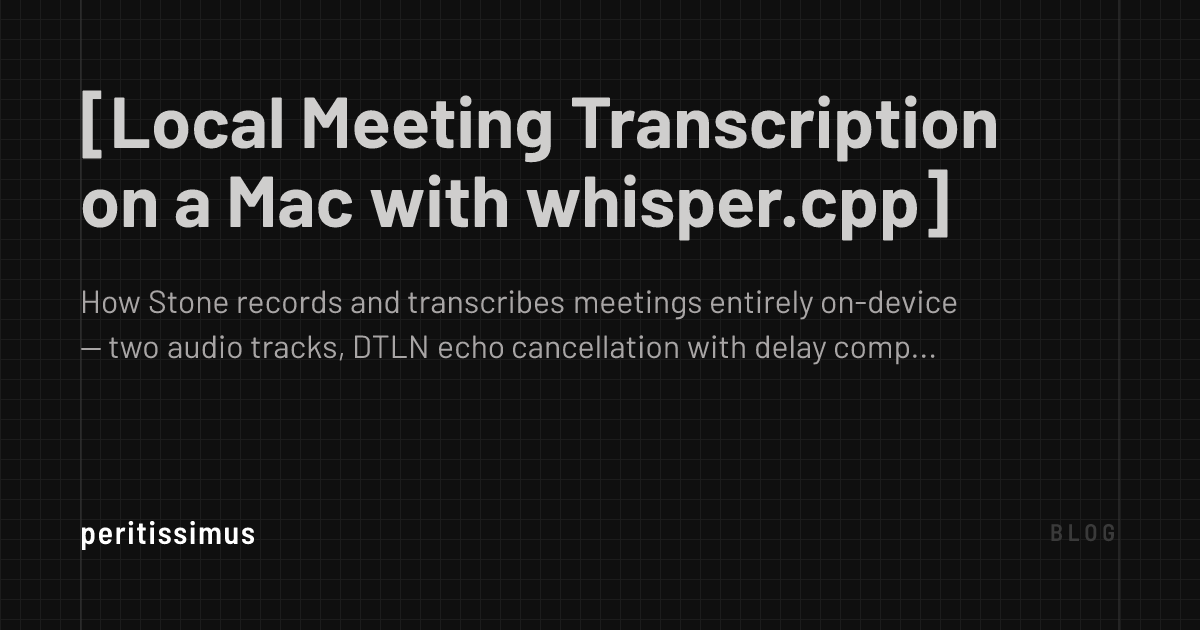
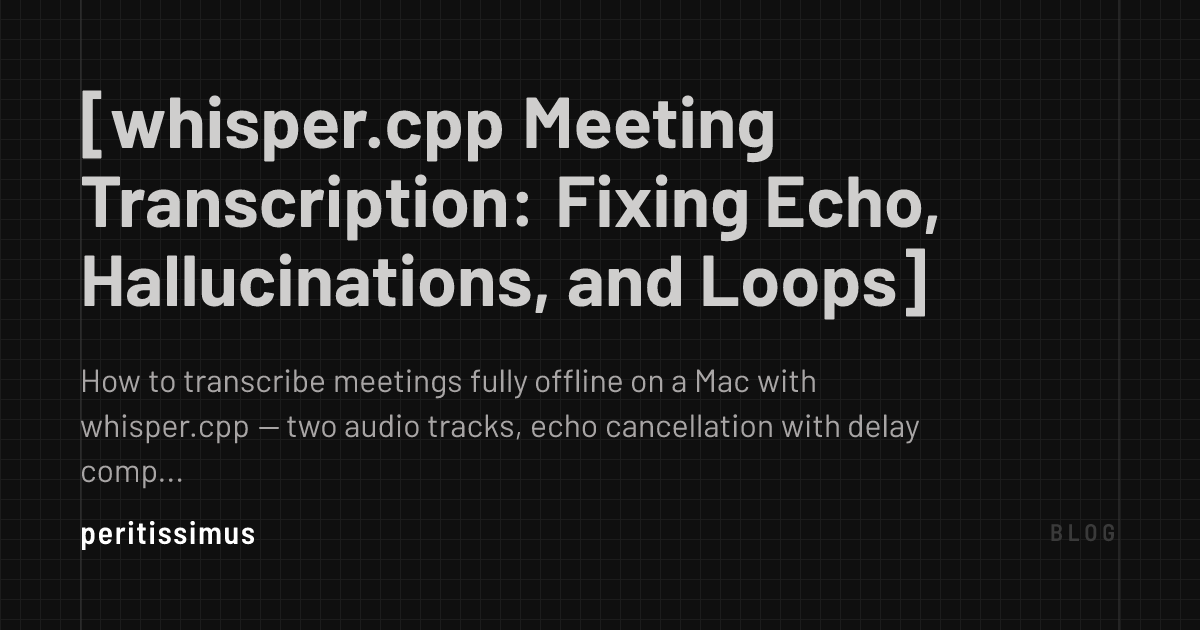
feat(seo): target the searches people make and fix missing preview images
Search Console showed almost all impressions were for brand terms, and
that the Stone page was indexed but never shown for note-taking queries.

- Add an optional seoTitle and updated date for project pages, and give
  every project a descriptive title instead of 'Personal Project'
- Retitle the transcription and search posts toward the queries they
  answer, and add the Redis visibility timeout to the Celery post
- Add a Stone vs Obsidian vs Granola comparison
- Rewrite the About, Blog and Software titles and descriptions
- Generate preview images for personal projects, whose og:image 404ed
- Keep crawlers out of Cloudflare's /cdn-cgi/ endpoint

Changed region(s): [[0.0617, 0.1508, 0.8325, 0.6333], [0.0617, 0.6635, 0.7708, 0.6937], [0.0617, 0.7238, 0.1542, 0.7841]]

diff --git a/scripts/generate-og-images.js b/scripts/generate-og-images.js
@@ -81,6 +81,34 @@ const WORK_PAGES = [
   },
 ];
 
+// Personal projects (read from content directory); the roles above keep
+// their hand-written descriptions.
+function getPersonalProjects() {
+  const workDir = path.join(ROOT_DIR, 'src/content/work');
+  if (!fs.existsSync(workDir)) return [];
+
+  const listed = new Set(WORK_PAGES.map((page) => page.slug));
+  const unquote = (value) => value.trim().replace(/^(['"])([\s\S]*)\1$/, '$2');
+
+  return fs
+    .readdirSync(workDir)
+    .filter((f) => f.endsWith('.md') && !listed.has(f.replace('.md', '')))
+    .map((file) => {
+      const content = fs.readFileSync(path.join(workDir, file), 'utf-8');
+      const frontmatter = content.match(/^---\n([\s\S]*?)\n---/)?.[1];
+      if (!frontmatter) return null;
+      const title = frontmatter.match(/^title:\s*(.+)$/m)?.[1];
+      const description = frontmatter.match(/^description:\s*(.+)$/m)?.[1];
+      return {
+        slug: file.replace('.md', ''),
+        title: title ? unquote(title) : file.replace('.md', ''),
+        description: description ? unquote(description) : '',
+        type: 'work',
+      };
+    })
+    .filter(Boolean);
+}
+
 // Blog posts (read from content directory)
 function getBlogPosts() {
   const blogDir = path.join(ROOT_DIR, 'src/content/blog');
@@ -353,7 +381,7 @@ async function main() {
   }
 
   // Generate work pages
-  for (const page of WORK_PAGES) {
+  for (const page of [...WORK_PAGES, ...getPersonalProjects()]) {
     const template = getBaseTemplate(page);
     const outputPath = path.join(OG_OUTPUT_DIR, `work/${page.slug}.png`);
     await generateOGImage(template, outputPath, fonts);

diff --git a/src/content.config.ts b/src/content.config.ts
@@ -27,6 +27,8 @@ const workCollection = defineCollection({
     description: z.string(),
     dateRange: z.string(),
     sortDate: z.coerce.date().optional(),
+    updated: z.coerce.date().optional(),
+    seoTitle: z.string().optional(),
     location: z.string(),
     order: z.number(),
     technologies: z.array(z.string()).default([]),

diff --git a/src/content/blog/stone-vs-obsidian-vs-granola.md b/src/content/blog/stone-vs-obsidian-vs-granola.md
@@ -1,0 +1,105 @@
+---
+title: "Stone vs Obsidian vs Granola: A Local, Open-Source Alternative"
+date: 2026-10-05
+author: Kushal Patankar
+category: Product
+tags: [Stone, Obsidian Alternative, Granola Alternative, Note-Taking, Meeting Notes, Local-First]
+description: An honest comparison of Stone with Obsidian and Granola. Where an open-source, local-first notes app with on-device meeting transcription fits, and where the other two are the better choice.
+readTime: 6 min read
+---
+
+I build [Stone](/work/stone), so this comparison is not neutral. I have tried to make it useful anyway, which means saying plainly where Obsidian and Granola are better.
+
+The short version: Obsidian is the best general notes app for plain Markdown files. Granola is the most polished AI meeting notepad. Stone is for the narrower case where you want both jobs in one app, with the files and the transcription staying on your own Mac.
+
+## The three tools in one table
+
+| | Stone | Obsidian | Granola |
+| --- | --- | --- | --- |
+| Main job | Notes, journals, tasks, meetings | Notes and knowledge base | Meeting notes |
+| Where notes live | Markdown files in your folder | Markdown files in your folder | The vendor's cloud |
+| Meeting transcription | Built in, on-device | Through community plugins | Built in, cloud-processed |
+| Source | Open source (MIT) | Closed source, free to use | Closed source, commercial |
+| Plugins | None | Very large ecosystem | Integrations |
+| Mobile app | None | Yes | Check their current offering |
+| Platforms | macOS | Desktop and mobile | Check their current offering |
+
+The last two Granola cells are deliberately vague. Product details change quickly, and their own site is the right source.
+
+## Stone vs Obsidian
+
+Both keep your notes as Markdown files in a folder you own. If that is the only thing you care about, Obsidian is the safer choice. It has years of polish, mobile apps, a huge plugin ecosystem, and a large community.
+
+Stone differs in what it builds in:
+
+- **Daily journals** are a core view, not a plugin.
+- **Tasks** are collected from every note into one list, with states like `WAITING` and `HOLD`.
+- **Meeting recording** captures your mic and system audio and transcribes them on-device.
+- **Semantic search and related notes** work out of the box, with the models running locally.
+- **Git sync** is built into the app.
+
+In Obsidian, each of those is a plugin you choose, configure, and keep updated. That flexibility is the point of Obsidian, and for many people it is the right trade. Stone makes the opposite trade: fewer choices, more in the box.
+
+Stone is also open source. Obsidian is free to use but not open source. If you want to read or change the code of your notes app, that matters.
+
+**Choose Obsidian if** you want mobile apps, plugins, or a mature tool with a big community. **Choose Stone if** you want journals, tasks, meetings, and semantic search in one opinionated Mac app, and you are comfortable with a young project.
+
+## Stone vs Granola
+
+Granola is an AI notepad built around meetings. It listens to the audio on your computer without sending a bot into the call, and turns your rough notes plus the transcript into a clean summary. It does that job very well.
+
+The difference is where the work happens. Granola processes meetings in the cloud. Stone transcribes on your Mac with Whisper, using whisper.cpp, and the audio never leaves the machine. Summaries in Stone use a language model you configure, and cloud inference is off by default.
+
+There is a second difference in what you are left with afterwards. In Stone, a meeting record is a Markdown file in the same folder as your notes and journals. It is searchable alongside everything else, and it shows up in related notes. A meeting is not a separate product. It is one more kind of note.
+
+Granola is better in several ways:
+
+- The summaries are more polished and need no setup.
+- It does not need a capable machine, because the heavy work runs on their servers.
+- It is a finished commercial product with a team behind it.
+
+**Choose Granola if** you want the best meeting notes with no setup and you are fine with cloud processing. **Choose Stone if** recordings and transcripts must stay on your machine, or you want meetings to live in the same files as the rest of your notes.
+
+I wrote up how the recorder works in [local meeting transcription with whisper.cpp](/blog/local-meeting-transcription-whisper-cpp).
+
+## What Stone does not do
+
+A comparison that only lists strengths is an advert. Stone has real gaps:
+
+- **No mobile app.**
+- **No real-time collaboration.**
+- **No plugin system.**
+- **macOS only** in published builds.
+- **Not notarized by Apple yet**, so the first launch needs a manual step.
+- **One label for everyone else on a call.** Remote speakers are not told apart.
+- **A small project.** One developer, and things break.
+
+If any of those is a requirement, pick one of the other two.
+
+## Can you use them together?
+
+Yes, for Obsidian. Stone's workspace is a plain folder of Markdown, so you can point both apps at the same folder and use whichever suits the moment. Stone stores its own index in a separate database, and it rebuilds that from the files, so nothing in the notes themselves is tied to Stone. I explain that design in [hybrid search in SQLite over Markdown notes](/blog/markdown-notes-sqlite-search-index).
+
+## Frequently asked questions
+
+### Is there an open-source alternative to Granola?
+
+Yes, several. Stone is one: it records your microphone and system audio without a meeting bot, transcribes on-device with Whisper, and saves the result as a Markdown file. It is MIT-licensed and free. It is a notes app with meetings built in, not a dedicated meeting tool.
+
+### Is Stone a good Obsidian alternative?
+
+It can be, if you want daily journals, tasks, meeting transcription, and semantic search built in and you work on a Mac. If you depend on Obsidian plugins or its mobile apps, Stone will not replace it.
+
+### Does Stone record meetings without a bot joining the call?
+
+Yes. Stone captures the audio on your own computer, so nothing joins the meeting and other participants see no extra attendee. Tell people you are recording; in many places the law requires it.
+
+### Can I move my Obsidian vault into Stone?
+
+Stone opens a folder of Markdown files, so an existing vault works as a workspace. Features that come from Obsidian plugins will not carry over. Keep a backup before pointing any new app at your notes.
+
+### Does Stone work without an internet connection?
+
+Notes, search, and meeting transcription all work offline once the models have been downloaded. Only the optional summary and question-answering features need a network, and only if you connect them to a cloud model.
+
+Stone is free and the code is at [github.com/peritissimus/stone-electron](https://github.com/peritissimus/stone-electron). The fuller description of the app is in [Stone: a local-first Markdown note-taking app for Mac](/blog/stone-local-first-note-taking-app).

diff --git a/src/content/blog/celery-redis-media-pipeline.md b/src/content/blog/celery-redis-media-pipeline.md
@@ -1,10 +1,11 @@
 ---
 title: "Processing 2,000 Hours of Media a Day with Celery and Redis"
 date: 2026-07-26
+updated: 2026-10-05
 author: Kushal Patankar
 category: Infrastructure
-tags: [Celery, Redis, Distributed Systems, Python, Architecture, Queues]
-description: What running a video dubbing pipeline at 2K hours of daily content taught me about queue design, worker acknowledgment, and where a 50% speedup actually comes from.
+tags: [Celery, Redis, Distributed Systems, Python, Architecture, Queues, acks_late, Visibility Timeout]
+description: What running a video dubbing pipeline at 2K hours of daily content taught me about queue design, acks_late, the Redis visibility timeout, and where a 50% speedup actually comes from.
 readTime: 11 min read
 ---
 
@@ -144,6 +145,24 @@ The second one is unglamorous and saved us repeatedly. Media libraries allocate 
 
 Late acknowledgment has a consequence worth stating plainly: your tasks must be safe to run twice. A requeued job will re-execute work that may have partially completed. Write outputs to deterministic paths, make database writes idempotent, and check whether a stage's output already exists before redoing it.
 
+## The Redis visibility timeout redelivers long tasks
+
+Late acknowledgment on a Redis broker comes with a timer that is easy to miss. Redis has no native acknowledgments, so Celery emulates them: a delivered message that has not been acknowledged within the `visibility_timeout` is handed to another worker. The default is one hour.
+
+With `task_acks_late=True`, a task is unacknowledged for as long as it runs. A transcode that takes 70 minutes is therefore redelivered at minute 60, while the first copy is still working. Now two workers process the same job, and nothing has failed.
+
+Set the timeout above your longest task, with room to spare:
+
+```python
+celery_app.conf.broker_transport_options = {
+    "visibility_timeout": 6 * 60 * 60,  # longer than the slowest job
+}
+```
+
+The trade-off runs the other way too. When a worker is killed outright, its unacknowledged message is not redelivered until the timeout expires. A six-hour timeout means a job lost to a hard kill can sit for six hours before another worker sees it. This is one more reason to keep job state in your own database: a sweeper that finds jobs stuck in a stage past their expected duration can requeue them in minutes instead of waiting on the broker.
+
+Tasks scheduled with `eta` or `countdown` are subject to the same timer. A task scheduled further out than the visibility timeout is redelivered and runs more than once.
+
 ## Where the 50% actually came from
 
 I want to be precise about this number, because "we made it 50% faster" invites the assumption that we optimized the slow parts. We mostly did not.
@@ -201,6 +220,10 @@ Redis works well as the broker and result backend for this workload, provided me
 ### What is the difference between `acks_late` and `task_reject_on_worker_lost`?
 
 `acks_late` delays acknowledgment until the task completes, so an unfinished message returns to the queue. `task_reject_on_worker_lost` covers the case where the worker process dies outright rather than raising an exception. Enable both for long-running work; either one alone leaves a gap.
+
+### Why does my long-running Celery task run twice on Redis?
+
+The task ran longer than the broker's `visibility_timeout`, which defaults to one hour. With `acks_late` enabled the message stays unacknowledged while the task runs, so Redis redelivers it to a second worker. Raise `visibility_timeout` in `broker_transport_options` above your longest task, and make the task safe to run twice.
 
 ### When should a pipeline stage get its own queue?
 

diff --git a/src/content/blog/markdown-notes-sqlite-search-index.md b/src/content/blog/markdown-notes-sqlite-search-index.md
@@ -1,10 +1,11 @@
 ---
-title: "Markdown Files as the Source of Truth, SQLite as an Index You Can Delete"
+title: "Hybrid Search in SQLite: FTS5, Embeddings, and Rank Fusion"
 date: 2026-09-26
+updated: 2026-10-05
 author: Kushal Patankar
 category: Architecture
-tags: [SQLite, Markdown, Local-First, Semantic Search, Embeddings, FTS5]
-description: How a local-first notes app keeps plain Markdown as the only durable data while still offering full-text search, semantic search, reranking, and related notes — all from a SQLite index that can be rebuilt at any time.
+tags: [SQLite, FTS5, Hybrid Search, Reciprocal Rank Fusion, Embeddings, Semantic Search, Markdown, Local-First]
+description: How to build hybrid search in SQLite — FTS5 full-text plus embeddings, merged with reciprocal rank fusion and a cross-encoder reranker — while plain Markdown files stay the only durable data.
 readTime: 9 min read
 ---
 
@@ -54,7 +55,7 @@ So each note's index record stores the model name and vector dimensions it was b
 
 This only works because of the first rule. Rebuilding is always safe, because the files are still there.
 
-## Hybrid search: two rankings merged
+## Hybrid search in SQLite: FTS5 and embeddings merged with rank fusion
 
 Full-text search and semantic search fail in opposite ways.
 
@@ -132,6 +133,10 @@ Store the notes as files if you care about portability and longevity, and use SQ
 ### What is reciprocal rank fusion?
 
 It is a way to merge several ranked lists. Each item scores `1 / (k + rank)` in every list where it appears, and the scores are summed. It needs no score normalization, which makes it a good fit for combining keyword and vector search.
+
+### Can SQLite do hybrid search?
+
+Yes. Use an FTS5 virtual table for keyword search and store embeddings alongside your rows for vector similarity. Run both queries, then merge the two ranked lists with reciprocal rank fusion. No separate search service is needed.
 
 ### Do I need a vector database for semantic search over notes?
 

diff --git a/src/content/work/stone.md b/src/content/work/stone.md
@@ -6,6 +6,8 @@ role: Designer & Engineer
 description: Stone is a free, open-source, local-first note-taking app for Mac. Notes, journals, tasks, and meeting transcripts stay as plain Markdown files on your own disk.
 dateRange: 2025 - Present
 sortDate: 2025-10-29
+updated: 2026-10-05
+seoTitle: Stone – Local-First Note-Taking App for Mac
 location: Independent
 order: 101
 technologies: [Electron, TypeScript, React, SQLite, Whisper, Local AI, Apple Calendar, Apple Mail]
@@ -32,4 +34,4 @@ Most knowledge tools make you choose: a smart, connected workspace that lives on
 
 **Retrieval is the payoff.** Full-text search, semantic search, topic clustering, a link graph, and related-note scoring all run on your machine, so context from three months ago resurfaces exactly when a project needs it. AI sits behind your data — optional, local-first, and never a requirement for the workspace to be useful.
 
-**Read more about Stone.** [What Stone is and who it is for](/blog/stone-local-first-note-taking-app) covers the features and how to install it. [Local meeting transcription with whisper.cpp](/blog/local-meeting-transcription-whisper-cpp) explains the recorder and echo cancellation. [Markdown as the source of truth](/blog/markdown-notes-sqlite-search-index) explains how search works over plain files.
+**Read more about Stone.** [What Stone is and who it is for](/blog/stone-local-first-note-taking-app) covers the features and how to install it. [Local meeting transcription with whisper.cpp](/blog/local-meeting-transcription-whisper-cpp) explains the recorder and echo cancellation. [Markdown as the source of truth](/blog/markdown-notes-sqlite-search-index) explains how search works over plain files. [Stone vs Obsidian vs Granola](/blog/stone-vs-obsidian-vs-granola) compares it honestly with the two tools it is most often measured against.

diff --git a/src/content/blog/local-meeting-transcription-whisper-cpp.md b/src/content/blog/local-meeting-transcription-whisper-cpp.md
@@ -1,10 +1,11 @@
 ---
-title: "Local Meeting Transcription on a Mac with whisper.cpp"
+title: "whisper.cpp Meeting Transcription: Fixing Echo, Hallucinations, and Loops"
 date: 2026-09-17
+updated: 2026-10-05
 author: Kushal Patankar
 category: AI/LLM
-tags: [Whisper, whisper.cpp, Transcription, Echo Cancellation, Electron, Local AI]
-description: How Stone records and transcribes meetings entirely on-device — two audio tracks, DTLN echo cancellation with delay compensation, Whisper large-v3-turbo, and summaries that know which lines to distrust.
+tags: [Whisper, whisper.cpp, Transcription, Whisper Hallucination, Echo Cancellation, Electron, Local AI]
+description: How to transcribe meetings fully offline on a Mac with whisper.cpp — two audio tracks, echo cancellation with delay compensation, and how to stop Whisper hallucinating on silence or looping the same phrase.
 readTime: 10 min read
 ---
 
@@ -73,13 +74,13 @@ I moved to whisper.cpp, built from source and bundled with the app as a command-
 
 The larger model matters for the way people really talk. It handles multiple languages and speakers who switch between them mid-sentence, which the small English model could not.
 
-## Skip the silence
+## Stopping Whisper from hallucinating on silence
 
 Whisper is trained on speech. Give it thirty seconds of silence or keyboard noise and it invents something — often a phrase like "Thank you for watching."
 
 Stone runs Silero VAD first to find the regions that contain a voice, and only those reach Whisper. This removes most hallucinated lines and also makes transcription faster, since long meetings are full of pauses.
 
-## Collapse the loops
+## Collapsing Whisper's repetition loops
 
 Even with voice detection, Whisper sometimes gets stuck. It repeats one phrase, segment after segment, for a minute or more.
 

diff --git a/src/content/blog/stone-local-first-note-taking-app.md b/src/content/blog/stone-local-first-note-taking-app.md
@@ -1,6 +1,7 @@
 ---
 title: "Stone: A Local-First Markdown Note-Taking App for Mac"
 date: 2026-09-08
+updated: 2026-10-05
 author: Kushal Patankar
 category: Product
 tags: [Stone, Note-Taking, Local-First, Markdown, Personal Knowledge Management]
@@ -119,7 +120,7 @@ In the folder you choose as your workspace, as Markdown files. Search indexes an
 
 ### How is Stone different from Obsidian?
 
-Both keep notes as local Markdown files. Stone is narrower and more opinionated: daily journals, cross-note tasks, meeting recording with on-device transcription, and semantic search are built in rather than added through plugins. Obsidian has a much larger plugin ecosystem and mobile apps, and Stone has neither.
+Both keep notes as local Markdown files. Stone is narrower and more opinionated: daily journals, cross-note tasks, meeting recording with on-device transcription, and semantic search are built in rather than added through plugins. Obsidian has a much larger plugin ecosystem and mobile apps, and Stone has neither. There is a longer comparison in [Stone vs Obsidian vs Granola](/blog/stone-vs-obsidian-vs-granola).
 
 ### Can I sync Stone between computers?
 

diff --git a/src/content/work/zoca.md b/src/content/work/zoca.md
@@ -3,6 +3,7 @@ title: Zoca
 company: Zoca
 role: Sr Software Engineer / IC
 description: Leading technical projects and driving innovation at Zoca, focusing on 0-to-1 product initiatives and infrastructure optimization.
+seoTitle: "Zoca – Senior Software Engineer Case Study"
 dateRange: November 2024 - Present
 location: Bengaluru
 order: 1

diff --git a/src/content/work/birdbrain.md b/src/content/work/birdbrain.md
@@ -4,6 +4,7 @@ company: Birdbrain
 kind: personal
 role: Designer & Engineer
 description: A private Twitter/X bookmark archive with AI summaries, topic classification, search, and automatic hydration.
+seoTitle: "Birdbrain – Private Twitter/X Bookmark Archive with AI Search"
 dateRange: "2026"
 sortDate: 2026-01-21
 location: Independent

diff --git a/src/content/work/garatch.md b/src/content/work/garatch.md
@@ -4,6 +4,7 @@ company: Garatch
 kind: personal
 role: Watch-face Designer & Engineer
 description: A collection of information-dense Garmin watch faces exploring typography, glanceability, and wearable data.
+seoTitle: "Garatch – Information-Dense Garmin Watch Faces"
 dateRange: 2025 - Present
 sortDate: 2025-06-21
 location: Independent

diff --git a/src/content/work/paperfolio.md b/src/content/work/paperfolio.md
@@ -4,6 +4,7 @@ company: Paperfolio
 kind: personal
 role: Designer & Engineer
 description: A paper-trading and research platform for screening Indian equities and testing portfolio strategies.
+seoTitle: "Paperfolio – Paper Trading and Screening for Indian Equities"
 dateRange: 'January 2026'
 sortDate: 2026-01-06
 location: Independent
